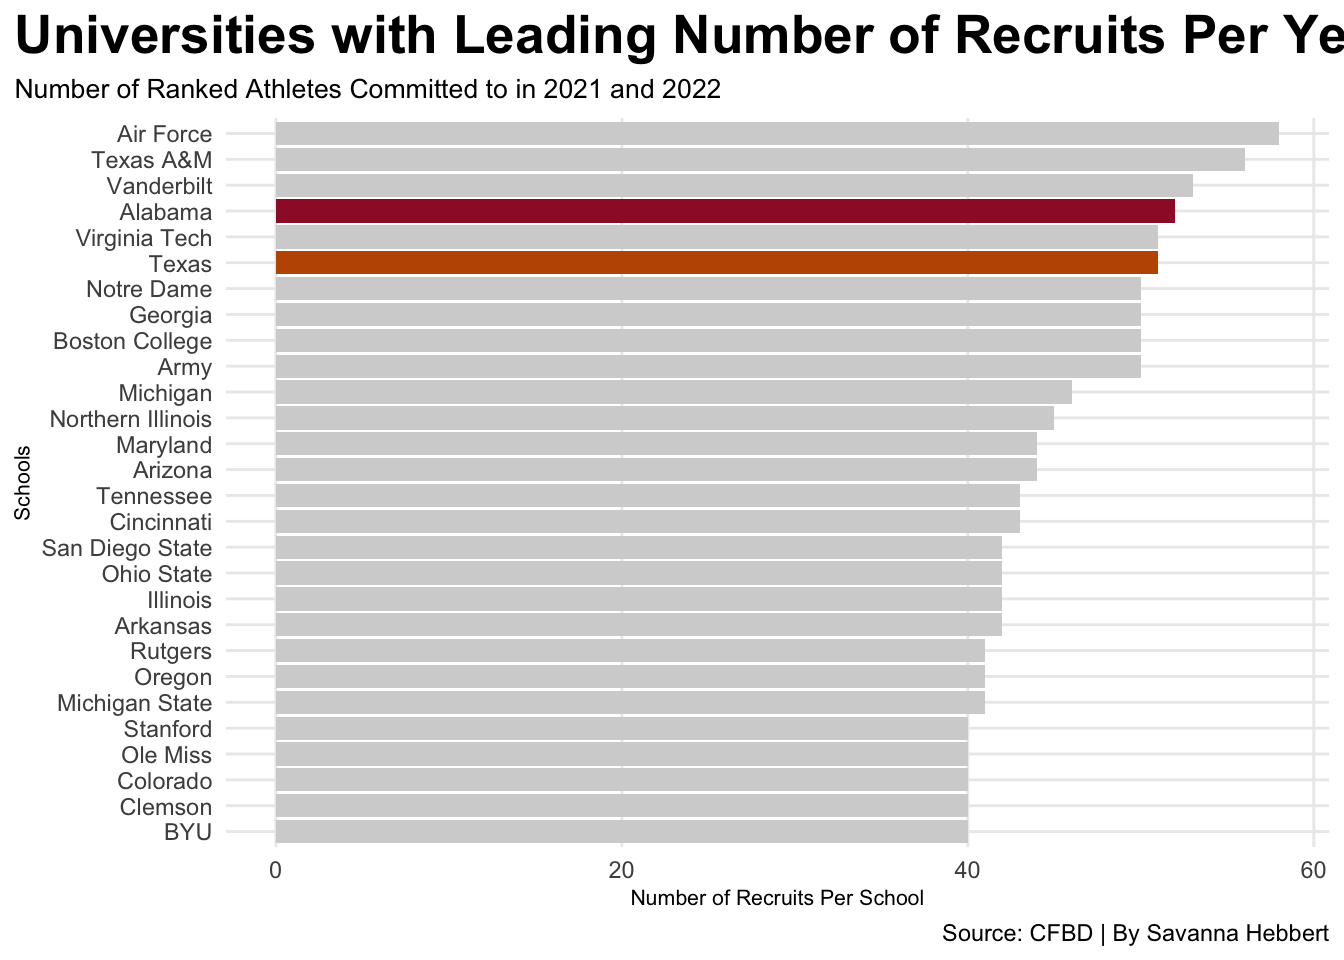
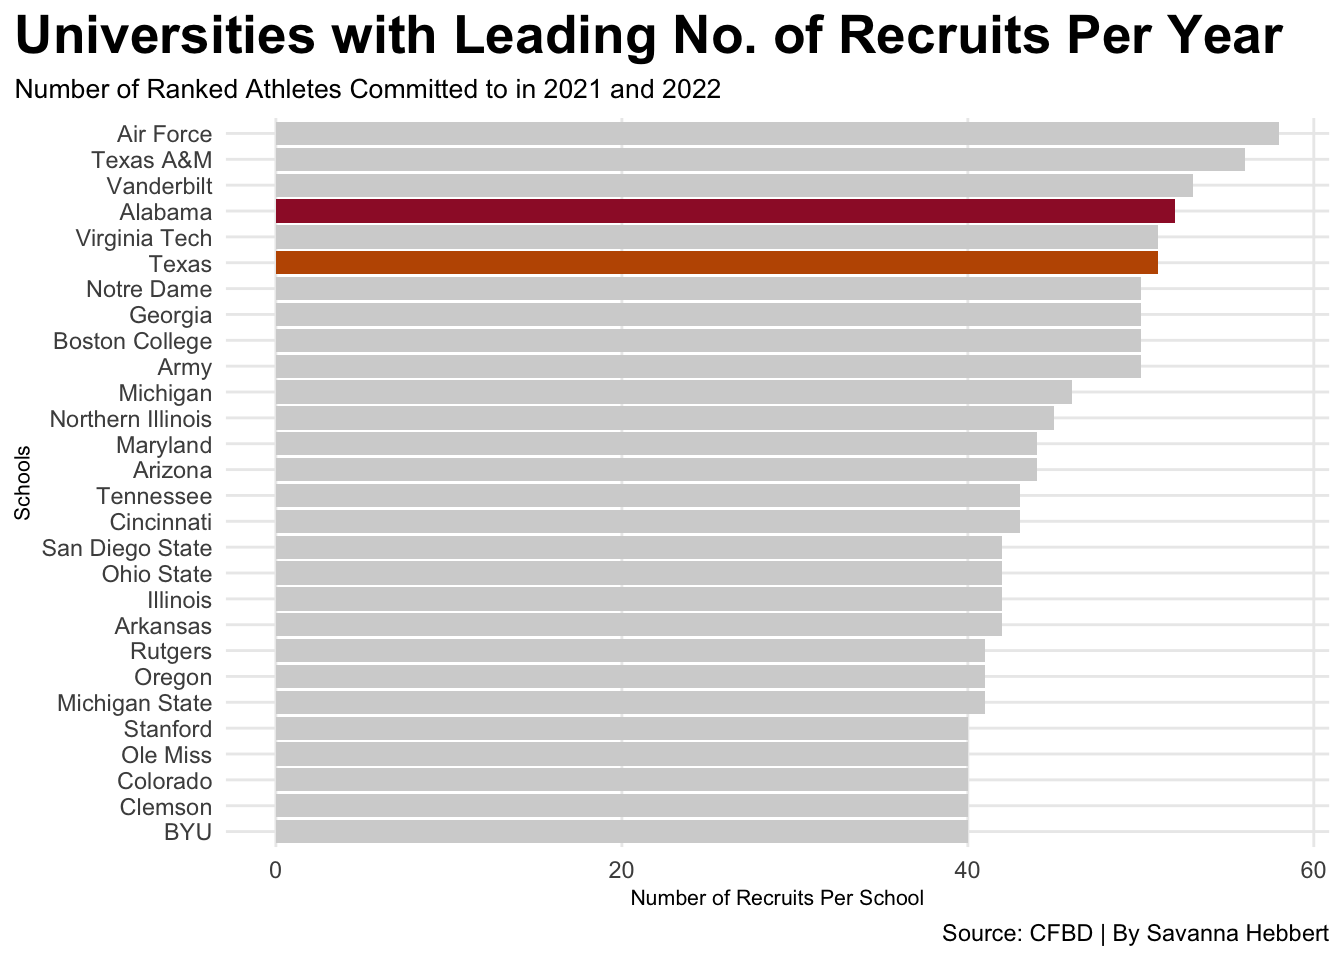
image

Changed region(s): [[0.5312, 0.0, 1.0, 0.0625]]

diff --git a/index.html b/index.html
@@ -244,7 +244,7 @@ code span.wa { color: #60a0b0; font-weight: bold; font-style: italic; } /* Warni
 <span id="cb1-25"><a href="#cb1-25" aria-hidden="true" tabindex="-1"></a>  <span class="fu">labs</span>(</span>
 <span id="cb1-26"><a href="#cb1-26" aria-hidden="true" tabindex="-1"></a>    <span class="at">x=</span><span class="st">"Schools"</span>, </span>
 <span id="cb1-27"><a href="#cb1-27" aria-hidden="true" tabindex="-1"></a>    <span class="at">y=</span><span class="st">"Number of Recruits Per School"</span>, </span>
-<span id="cb1-28"><a href="#cb1-28" aria-hidden="true" tabindex="-1"></a>    <span class="at">title=</span><span class="st">"Universities with Leading Number of Recruits Per Year"</span>, </span>
+<span id="cb1-28"><a href="#cb1-28" aria-hidden="true" tabindex="-1"></a>    <span class="at">title=</span><span class="st">"Universities with Leading No. of Recruits Per Year"</span>, </span>
 <span id="cb1-29"><a href="#cb1-29" aria-hidden="true" tabindex="-1"></a>    <span class="at">subtitle=</span><span class="st">"Number of Ranked Athletes Committed to in 2021 and 2022"</span>, </span>
 <span id="cb1-30"><a href="#cb1-30" aria-hidden="true" tabindex="-1"></a>    <span class="at">caption=</span><span class="st">"Source: CFBD | By Savanna Hebbert"</span></span>
 <span id="cb1-31"><a href="#cb1-31" aria-hidden="true" tabindex="-1"></a>    )  <span class="sc">+</span></span>
@@ -284,7 +284,7 @@ code span.wa { color: #60a0b0; font-weight: bold; font-style: italic; } /* Warni
 <span id="cb2-17"><a href="#cb2-17" aria-hidden="true" tabindex="-1"></a>        <span class="at">colors =</span> <span class="fu">c</span>(<span class="st">"darkorange"</span>,<span class="st">"#BF5700"</span>,<span class="st">"#333F48"</span>,<span class="st">"#FFBF00"</span>)</span>
 <span id="cb2-18"><a href="#cb2-18" aria-hidden="true" tabindex="-1"></a>) <span class="sc">+</span> </span>
 <span id="cb2-19"><a href="#cb2-19" aria-hidden="true" tabindex="-1"></a>  <span class="fu">labs</span>(</span>
-<span id="cb2-20"><a href="#cb2-20" aria-hidden="true" tabindex="-1"></a>    <span class="at">title=</span><span class="st">"Average Number of Ranked Players Attending Texas and Alabama"</span>, </span>
+<span id="cb2-20"><a href="#cb2-20" aria-hidden="true" tabindex="-1"></a>    <span class="at">title=</span><span class="st">"Ranked Players Attending Texas and Alabama"</span>, </span>
 <span id="cb2-21"><a href="#cb2-21" aria-hidden="true" tabindex="-1"></a>    <span class="at">subtitle=</span><span class="st">"Ranging from 2-5 stars but weighing in heavy with 4-star commits"</span>,</span>
 <span id="cb2-22"><a href="#cb2-22" aria-hidden="true" tabindex="-1"></a>    <span class="at">x =</span> <span class="st">"Texas"</span></span>
 <span id="cb2-23"><a href="#cb2-23" aria-hidden="true" tabindex="-1"></a>),</span>
